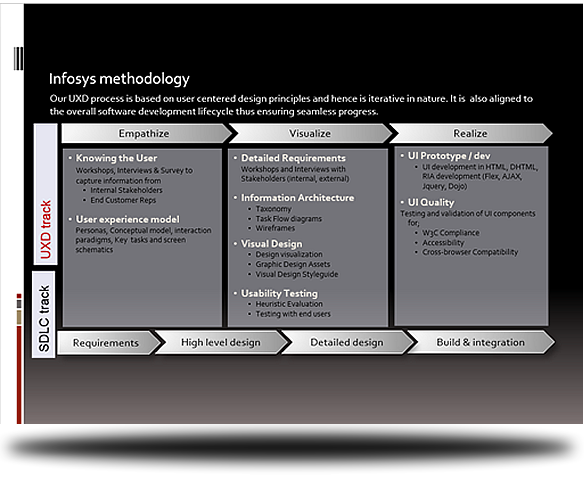
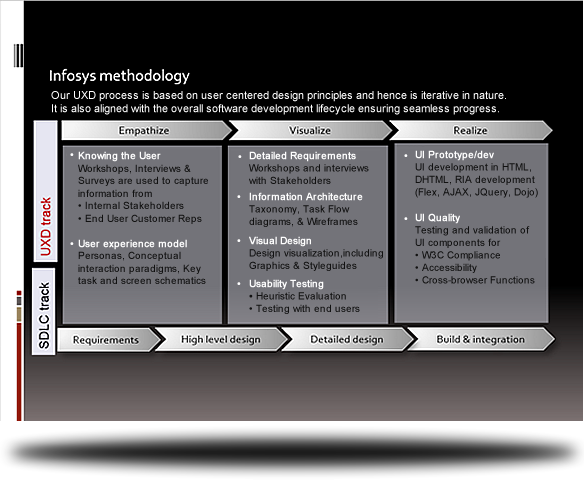
Improved image
Clear text

Changed region(s): [[0.0308, 0.124, 0.9555, 0.7438], [0.0, 0.8678, 1.0, 0.9917], [0.0, 0.0, 1.0, 0.031]]

diff --git a/pages/company1.html b/pages/company1.html
@@ -4,14 +4,14 @@
             <div class="text left">
                 <h2>UX/UI Lead</h2>
                <h3>Infosys Limited</h3>
-   <p>Interfacing with key stakeholders and apply technical proficiency across different stages of the software development life cycle including requirements elicitation, application architecture definition and design. 
+   <p>My responsibilites include interfacing with key stakeholders and apply technical proficiency across different stages of the software development life cycle including requirements elicitation, application architecture definition and design. 
 </p>
                 <p>In addition, I deliver high quality code for lead validation for all types of testing and support of activities related to implementation, transition and warranty.</p>
                 <p>Samples coming soon...</p>
                 
                 <a class="btn" href="#!/" ng-class="{activeSmall:part == 'projects'}">Back</a>
             </div>
-            <img class="picture right" src="images/element-Infosys-Method-2.png" />
+            <img class="picture right" src="images/element-Infosys-Method.png" />
             <div style="clear:both"></div>
         </div>
     </div>
